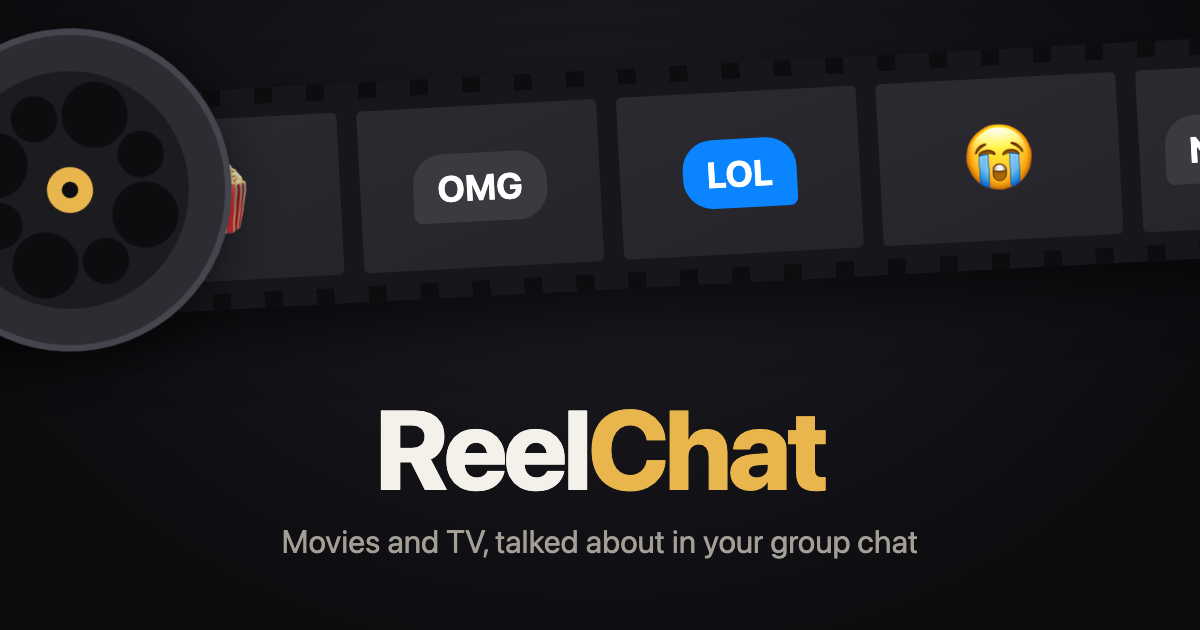
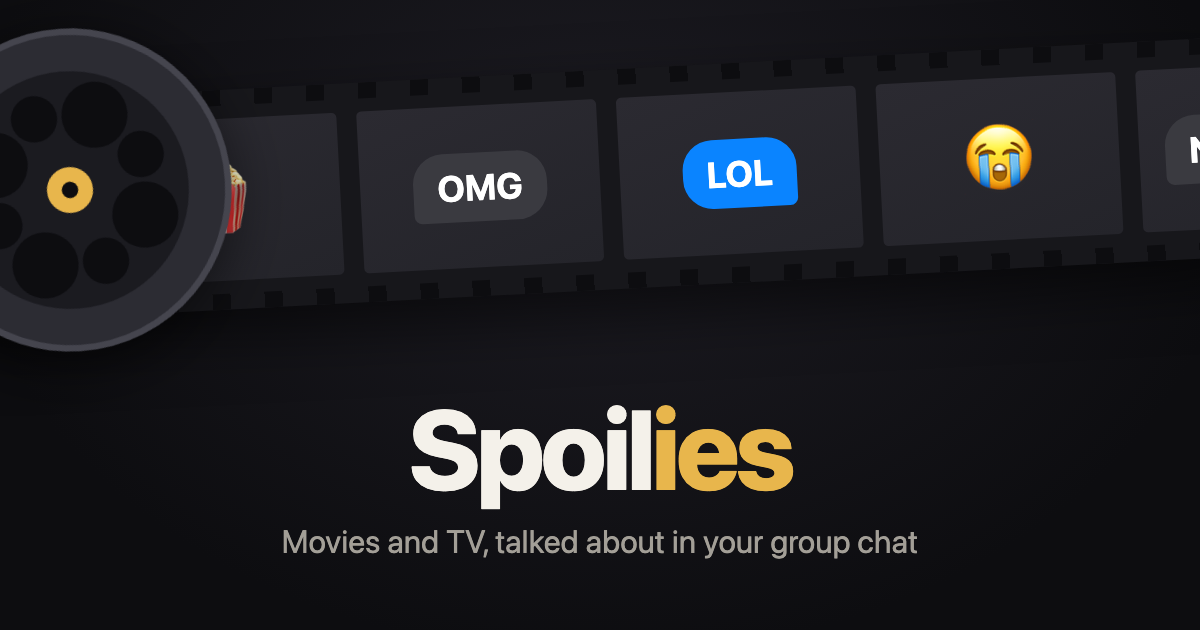
Add files via upload

Changed region(s): [[0.3083, 0.6333, 0.7092, 0.8143]]

diff --git a/index.html b/index.html
@@ -5,27 +5,27 @@
 <meta name="viewport" content="width=device-width, initial-scale=1">
 <meta name="theme-color" content="#0d0d10">
 <meta name="color-scheme" content="dark">
-<title>ReelChat: Movies &amp; TV with Friends · iMessage App</title>
+<title>Spoilies: Movies &amp; TV with Friends · iMessage App</title>
 <meta name="description" content="Check in, rate and talk movies and TV with your group chat, right inside iMessage.">
 <!-- link previews (the bubble iMessage shows when someone sends this link) -->
 <meta property="og:type" content="website">
-<meta property="og:site_name" content="ReelChat">
-<meta property="og:title" content="ReelChat">
+<meta property="og:site_name" content="Spoilies">
+<meta property="og:title" content="Spoilies">
 <meta property="og:description" content="Check in, rate and talk movies and TV with your group chat, right inside iMessage.">
-<meta property="og:url" content="https://getreelchat.app/">
-<meta property="og:image" content="https://getreelchat.app/preview.png">
+<meta property="og:url" content="https://spoilies.app/">
+<meta property="og:image" content="https://spoilies.app/preview.png">
 <meta property="og:image:width" content="1200">
 <meta property="og:image:height" content="630">
-<meta property="og:image:alt" content="A film strip of chat messages (OMG, LOL) coming off a film reel, above the ReelChat name">
+<meta property="og:image:alt" content="A film strip of chat messages (OMG, LOL) coming off a film reel, above the Spoilies name">
 <meta name="twitter:card" content="summary_large_image">
 <link rel="apple-touch-icon" href="/apple-touch-icon.png">
 <link rel="icon" type="image/png" href="/apple-touch-icon.png">
-<link rel="canonical" href="https://getreelchat.app/">
+<link rel="canonical" href="https://spoilies.app/">
 <!-- Site name for Google. Data only: browsers never run an ld+json block, so the page still runs no scripts. -->
 <script type="application/ld+json">
-{"@context": "https://schema.org", "@type": "WebSite", "name": "ReelChat", "alternateName": "ReelChat: Movies & TV with Friends", "url": "https://getreelchat.app/"}
+{"@context": "https://schema.org", "@type": "WebSite", "name": "Spoilies", "alternateName": "Spoilies: Movies & TV with Friends", "url": "https://spoilies.app/"}
 </script>
-<!-- getreelchat.app (FEAT-007). No scripts that run: the page never reads the link (card links carry the chat key after #). -->
+<!-- spoilies.app (FEAT-007, FEAT-040). No scripts that run: the page never reads the link (card links carry the chat key after #). -->
 <style>
   :root {
     --bg: #0d0d10;
@@ -189,7 +189,7 @@
 </div>
 
 <main>
-  <h1 class="logo">Reel<span>Chat</span></h1>
+  <h1 class="logo">Spoil<span>ies</span></h1>
   <p class="tag">Check in, rate and talk movies and TV with your group chat, right inside iMessage.</p>
   <!-- Before release: a button that goes nowhere. At launch, swap it for the App Store link:
        <a class="store" href="(App Store link)"> Apple logo + <small>Download on the</small>App Store </a> -->
@@ -205,7 +205,7 @@
   </ul>
 </main>
 
-<footer>© 2026 ReelChat · <a href="#">Privacy</a> · <a href="#">Support</a></footer>
+<footer>© 2026 Spoilies · <a href="#">Privacy</a> · <a href="#">Support</a></footer>
 
 </body>
 </html>
